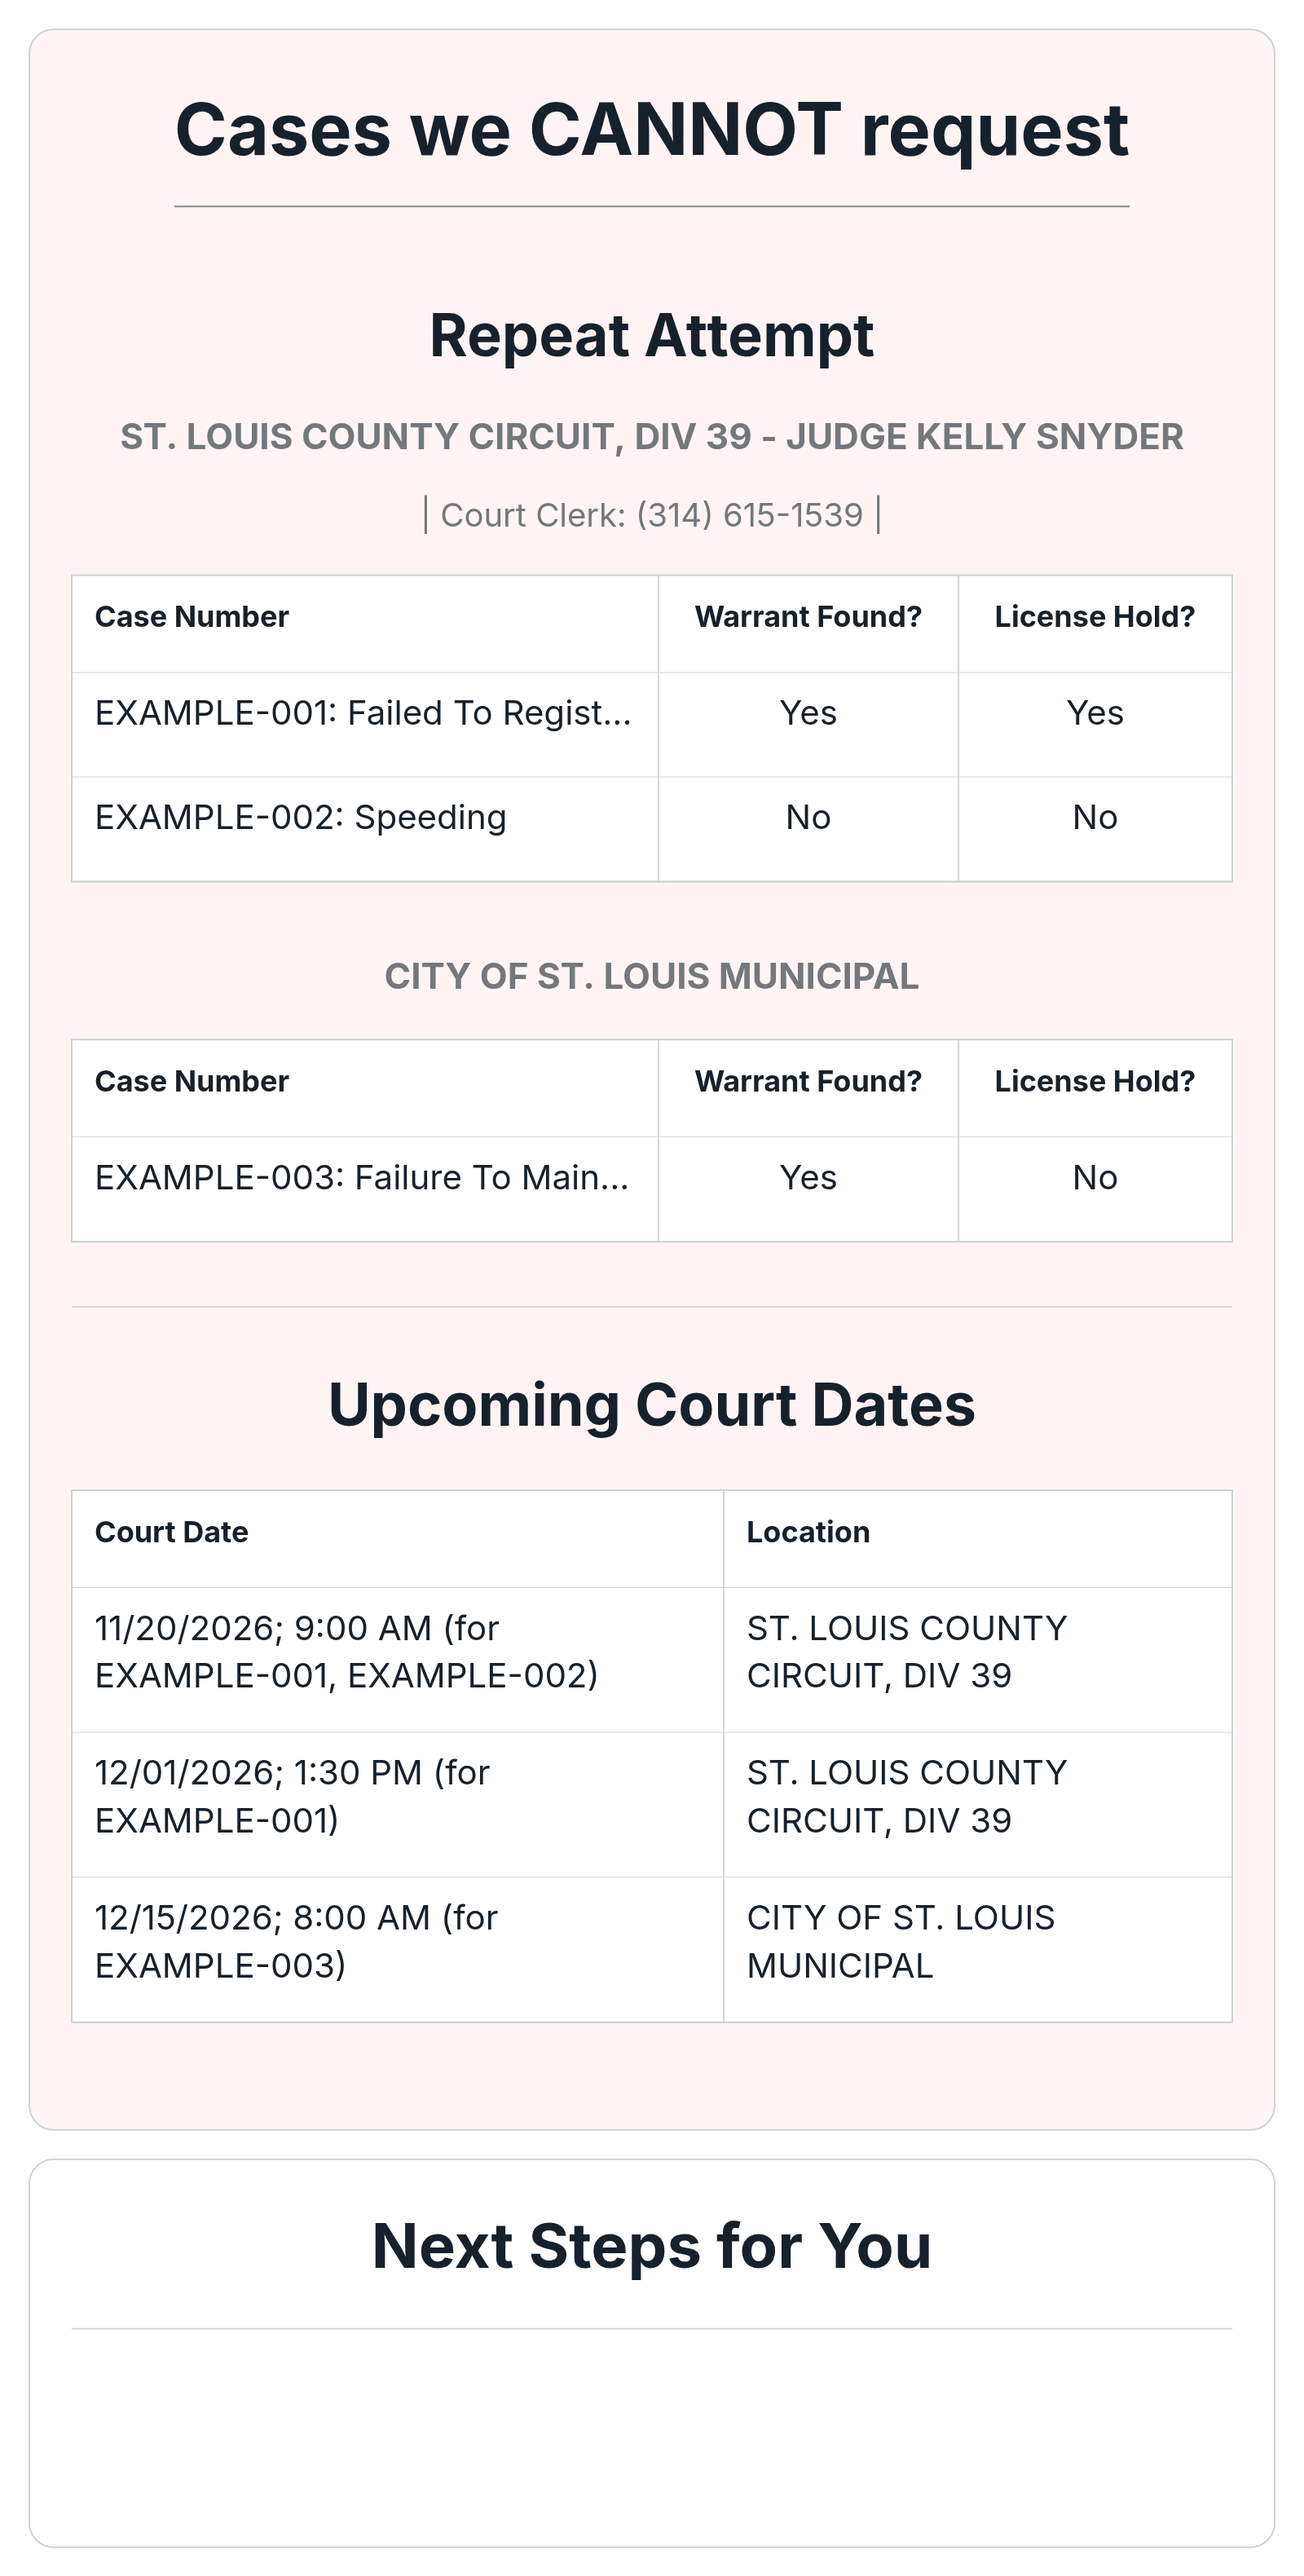
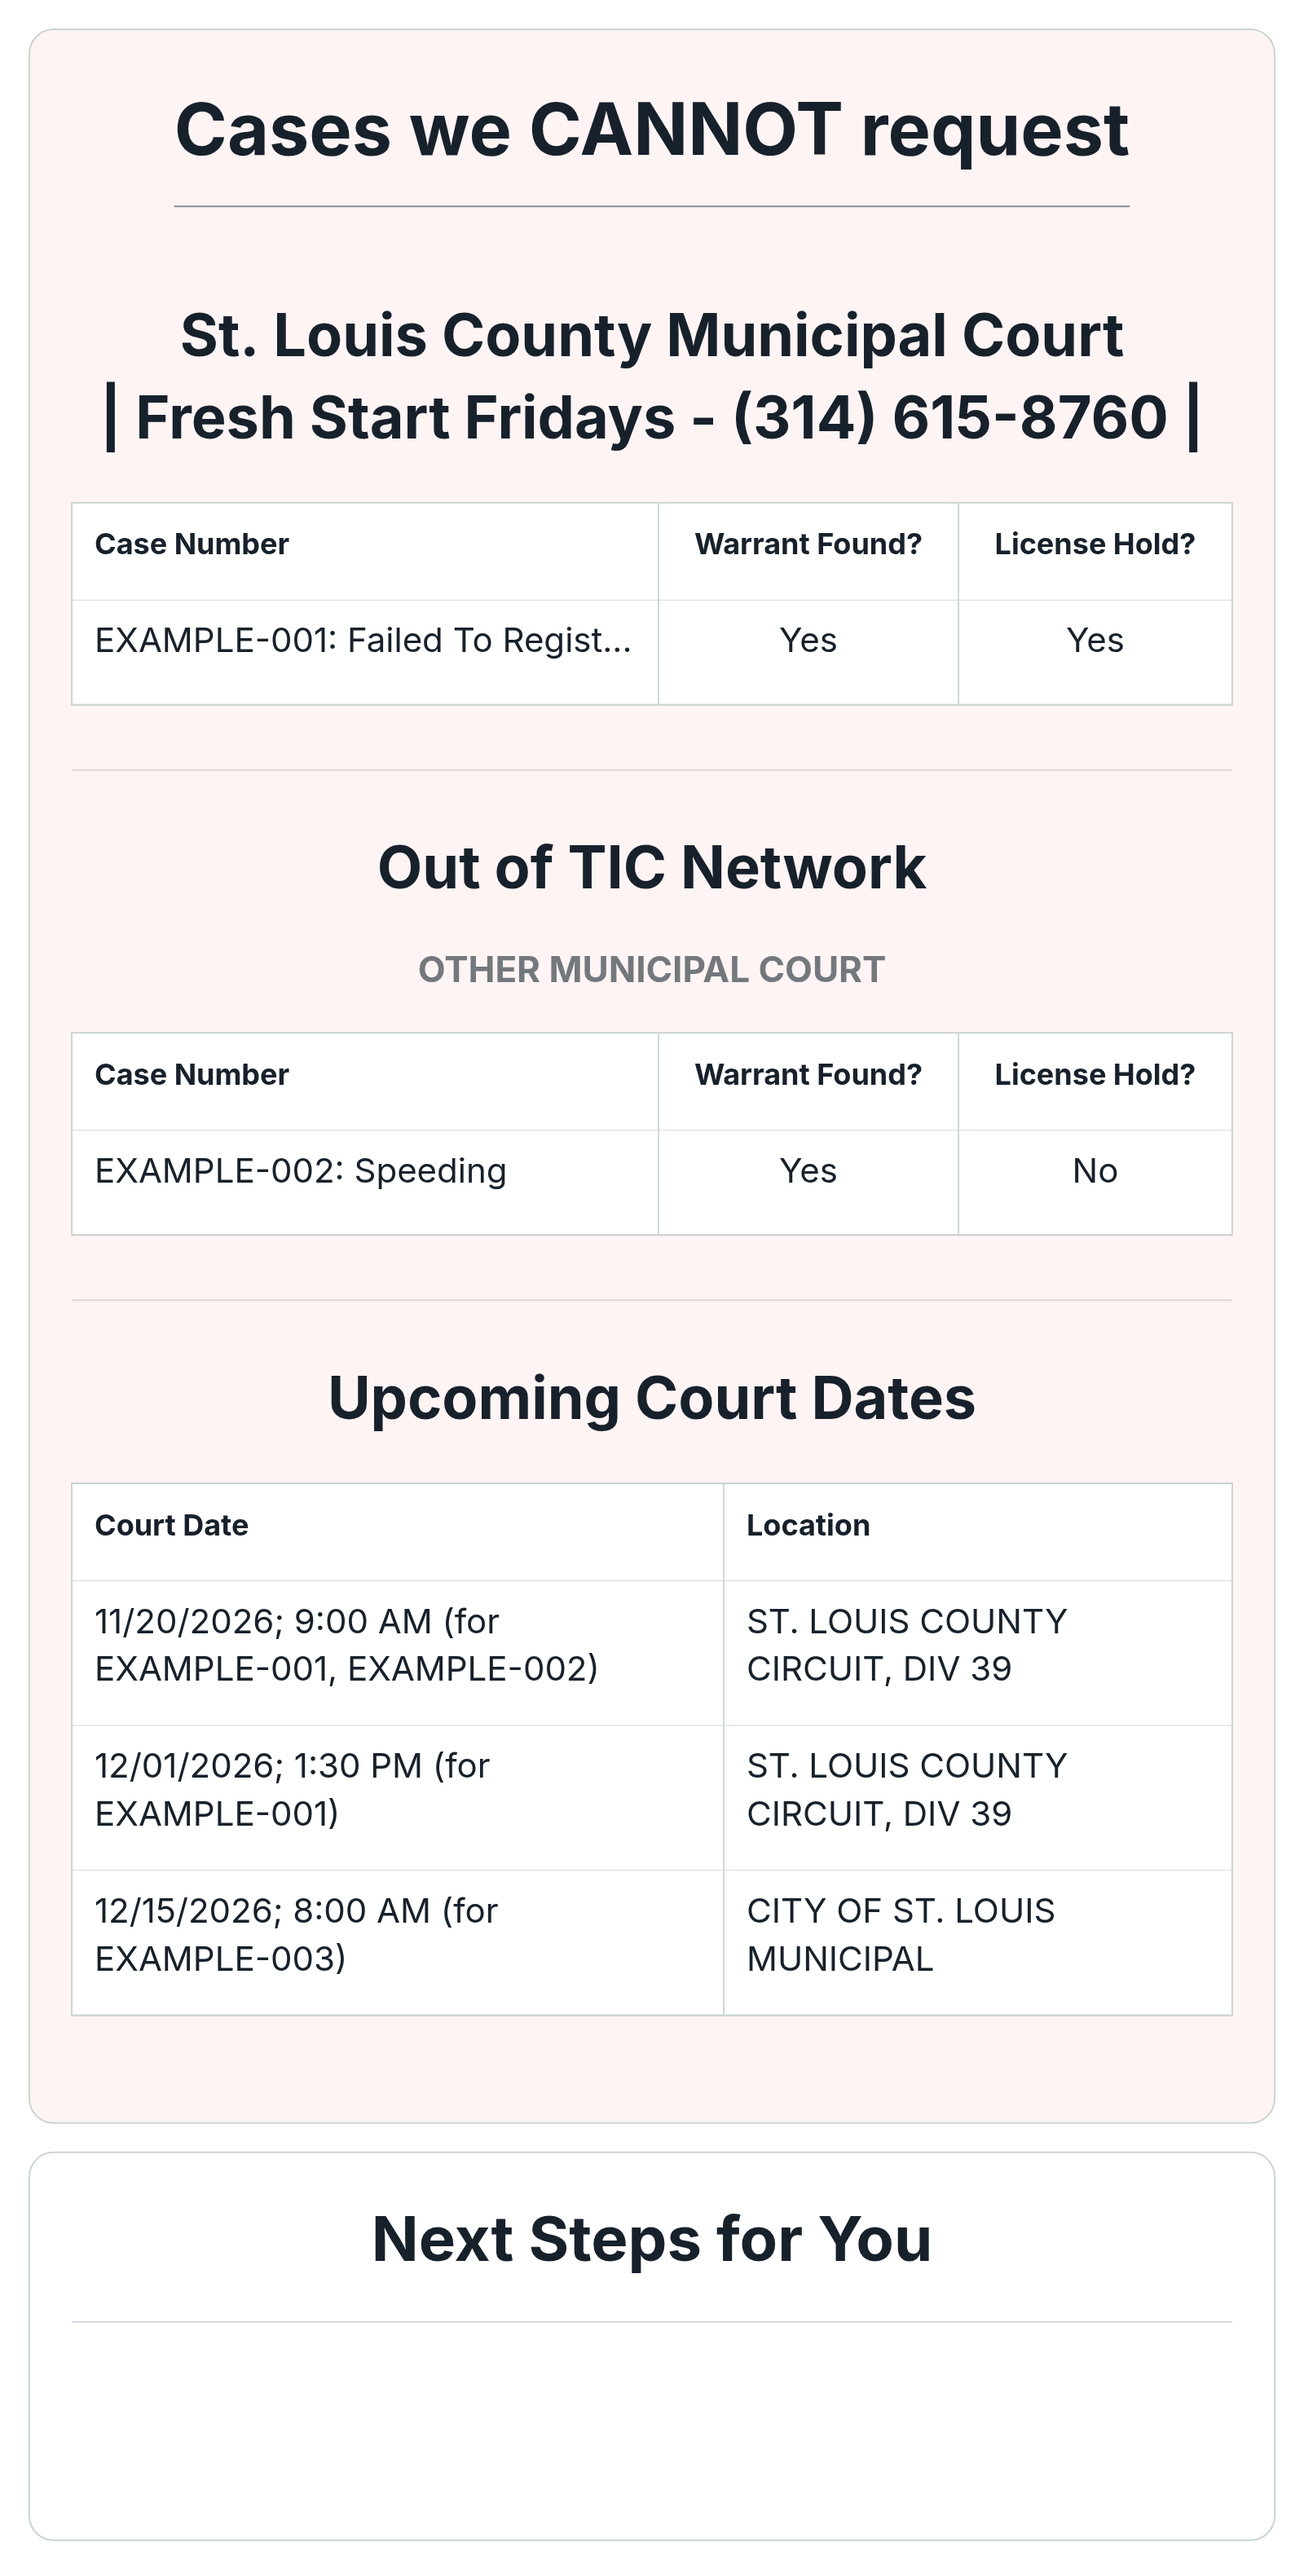
Refine Fresh Start Friday and out-of-network infographic headings (#315)

diff --git a/src/tampermonkey/17a-constructed-infographics.js b/src/tampermonkey/17a-constructed-infographics.js
@@ -21,9 +21,9 @@ function textBuilderInfographicReasons() {
     {label:'Repeat Attempt',title:'Repeat Attempt',path:'Can’tDo: Repeat Attempt',key:'multipleRepeatAttempt'},
     {label:'Initial Warrant',title:'Initial Warrant',path:'Can’tDo: Initial Warrant',key:'multipleInitialWarrant'},
     {label:'Private Attorney',title:'Private Attorney',path:'Can’tDo: Private Attorney',key:'multiplePrivateAttorney'},
-    {label:'Fresh Start Friday',title:'St. Louis County Municipal Court',path:'Can’tDo: Fresh Start Friday',key:'multipleFreshStartFriday'},
+    {label:'Fresh Start Friday',title:'St. Louis County Municipal Court\n| Fresh Start Fridays - (314) 615-8760 |',fixedCourtHeader:true,path:'Can’tDo: Fresh Start Friday',key:'multipleFreshStartFriday'},
     {label:'Recent FTA',title:'Recent FTA, Not a Warrant Yet',path:'Can’tDo: Recent FTA, Not a Warrant Yet',key:'multipleRecentFta'},
-    {label:'Out of Network',title:'Not in TIC Network',path:'Can’tDo: Out of Network',key:'multipleOutOfNetwork'}
+    {label:'Out of Network',title:'Out of TIC Network',path:'Can’tDo: Out of Network',key:'multipleOutOfNetwork'}
   ];
 }
 function textBuilderInfographicSources() {
@@ -34,13 +34,13 @@ function textBuilderInfographicSources() {
   if (mixed || d.researchType === 'CanDo: Everything') sources.push({type:'eligible',sections:[{text:d.eligibleCases || ''}]});
   const reasons = textBuilderInfographicReasons();
   if (multiple) {
-    const sections = reasons.filter(r => (d.multipleReasons || []).includes(r.label)).map(r => ({title:r.title,text:d[r.key] || ''}));
+    const sections = reasons.filter(r => (d.multipleReasons || []).includes(r.label)).map(r => ({title:r.title,text:d[r.key] || '',fixedCourtHeader:Boolean(r.fixedCourtHeader)}));
     if (sections.length) sources.push({type:'ineligible',sections});
   } else {
     const reason = reasons.find(r => r.path === d.researchType);
     if (reason) {
       const text = reason.label === 'Private Attorney' ? [d.privateAttorneyCases,d.remainingIneligibleCases].filter(Boolean).join('\n\n') : d.ineligibleCases;
-      sources.push({type:'ineligible',sections:[{title:reason.title,text:text || ''}]});
+      sources.push({type:'ineligible',sections:[{title:reason.title,text:text || '',fixedCourtHeader:Boolean(reason.fixedCourtHeader)}]});
     }
   }
   return sources;
@@ -160,8 +160,10 @@ function textBuilderInfographicModel(source,measure) {
     if (section.title) add(section.title,36,true,'subheading');
     for (const [groupIndex,group] of textBuilderInfographicCourtGroups(summary.cases).entries()) {
       if (groupIndex > 0) y += 24;
-      if (group.court) add(group.court,22,true,'court');
-      for (const detail of group.details) add(detail,20,false,'courtDetail');
+      if (!section.fixedCourtHeader) {
+        if (group.court) add(group.court,22,true,'court');
+        for (const detail of group.details) add(detail,20,false,'courtDetail');
+      }
       for (const note of group.notes) add(note,24,false);
       if (group.entries.length) {
         const table = textBuilderInfographicTable(group.entries,y,measure,model.boxes.length,source.type);

diff --git a/docs/constructed-infographics.md b/docs/constructed-infographics.md
@@ -12,9 +12,9 @@ The eligible image contains “Cases we CAN request” and “Next Steps for TIC
 1. Repeat Attempt
 2. Initial Warrant
 3. Private Attorney
-4. St. Louis County Municipal Court (Fresh Start Friday)
+4. St. Louis County Municipal Court, followed on a new line by `| Fresh Start Fridays - (314) 615-8760 |` (Fresh Start Friday)
 5. Recent FTA, Not a Warrant Yet
-6. Not in TIC Network (Out of Network)
+6. Out of TIC Network (Out of Network)
 
 Both images have no surrounding editor headings or card frames, and both section headings are centered. Each case heading has a thin text-width underline. Each next-step heading has a full-width demarcation below it, without a direct text underline. Both layouts use larger bold headings, muted uppercase court labels, and fine separators between groups. The eligible case panel is pale green; the ineligible panel is pale blush.
 
@@ -25,6 +25,10 @@ Eligible case tables have a single **Case Number** column. Ineligible case table
 Table cells all use the same white background. Headers are vertically centered; Case Number stays left aligned, while Warrant Found? and License Hold? are horizontally centered and fit on one line. In ineligible case tables, `- open (no warrant found)` maps to **No**, `- warrant` maps to **Yes**, and the open marker takes precedence if both occur. Missing/unrecognized warrant status shows **—**. License Hold? is **Yes** when `hold placed on license` occurs, otherwise **No**. Matching is case-insensitive.
 
 Lines beginning with `|`, such as `| Court Clerk: (314) 615-1539 |`, stay with the preceding court heading and appear immediately below it, never as a case-number cell. Subsection titles and court heading blocks are centered above their tables.
+
+### Fresh Start Friday
+
+Fresh Start Friday inputs use the fixed, centered two-line subsection heading above. The summary marker `ST. LOUIS COUNTY MUNICIPAL - (314) 615-8760 | FRESH START FRIDAYS*` identifies the following cases; it is not repeated as a court heading or placed in a case cell. Extracted court/clerk heading blocks are suppressed for this subsection because its fixed heading already supplies that information. Case rows still populate Case Number, Warrant Found?, and License Hold? normally. Applies to the individual path, Multiple Reasons, and CanDo + Can’tDo. Other reason sections retain their normal court headings.
 
 ### Upcoming Court Dates
 
